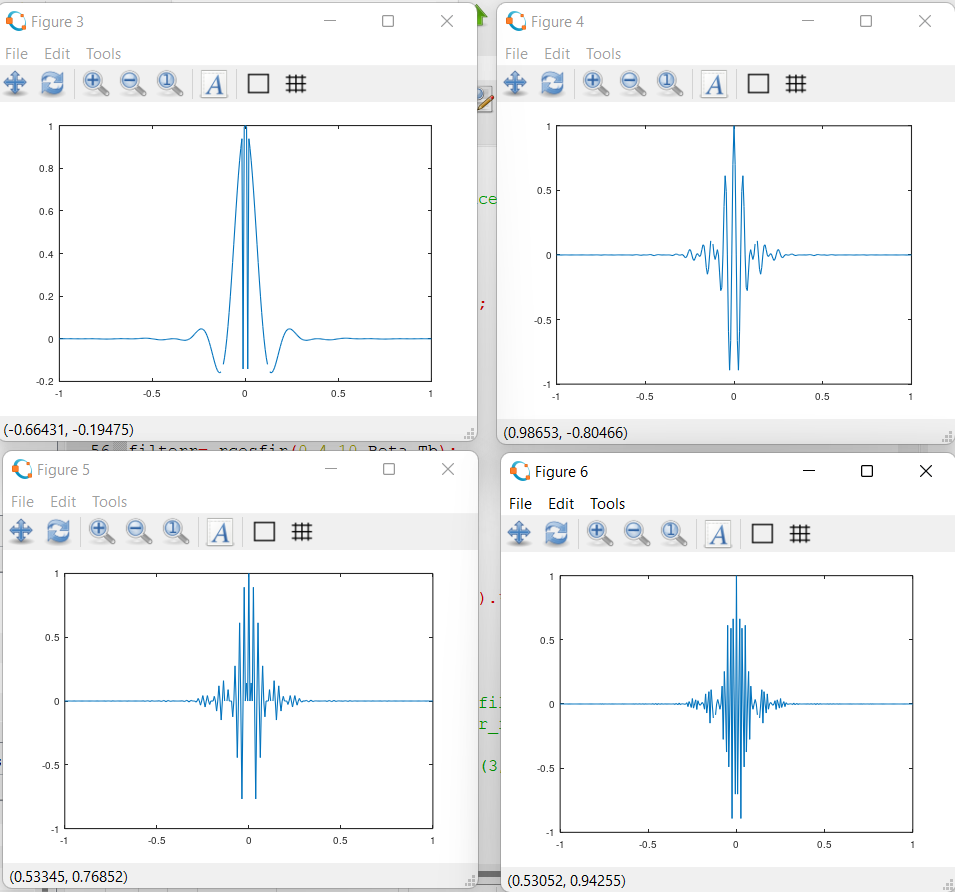
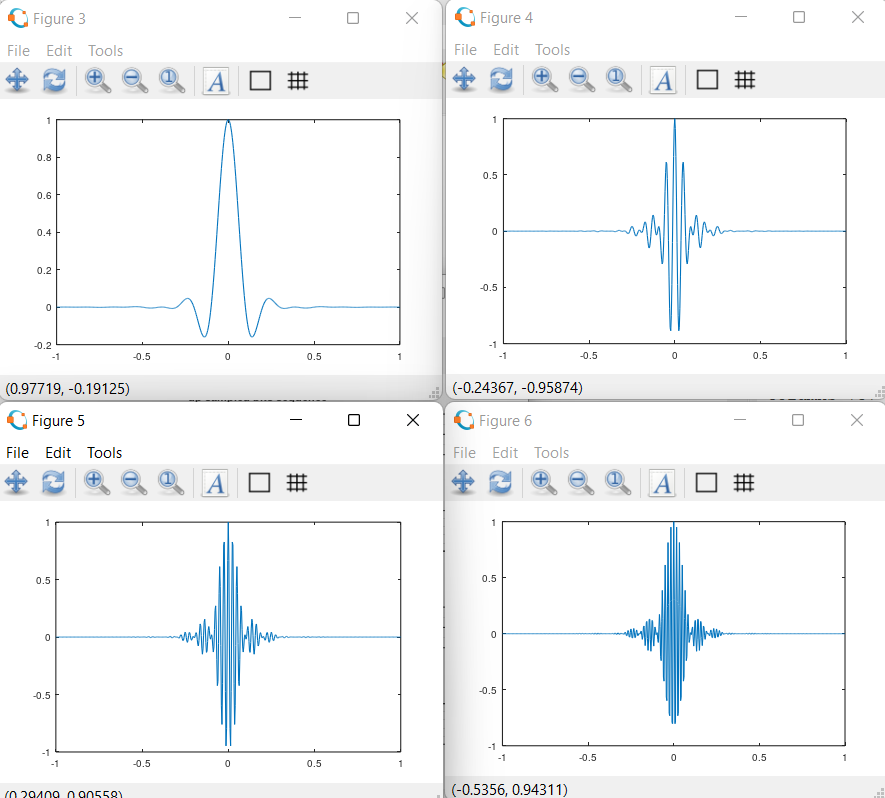
UPDATE

diff --git a/transmitter.m b/transmitter.m
@@ -13,7 +13,7 @@ Tb = 0.1; %period of a bit
 
 M =6 ;%length of the message
 N = 4; %number of messages
-Beta = 30;
+Beta = 100;
 Tn = Tb/Beta %period of sampling
 
 ak = a_generator(M,N);
@@ -74,8 +74,8 @@ carrier(2,:) = cos((4*pi*1000/Tb)*filter_range);
 p2 = filterr.*carrier(2,:);
 temp(2,:) = upsampledsignal(:,2);
 output(2,:)= conv(p2,temp(2,:));
-size = columns(output(2,:)) 
-t =(-Tn*size/2:Tn:Tn*size/2)
+size = columns(output(2,:)) -1;
+t =(-Tn*size/2:Tn:Tn*size/2);
 output(2,:);
 figure(10);
 plot(t,output(2,:));

diff --git a/README.md b/README.md
@@ -51,3 +51,13 @@
   width: 100%;"/>
 
 <h3 style="color:pink" > Produit de convolution</h3>
+<p>La convolution en domaine temporelle est fait gràce à la fonction conv de matlab</p>
+<img src="images/conv.png" style ="display: block;
+  margin-left: auto;
+  margin-right: auto;
+  width: 50%;"/>
+  <p>Et ça donne le résultat suivant pour la deuxième séquence </p>
+  <img src="images/convolution.png" style ="display: block;
+  margin-left: auto;
+  margin-right: auto;
+  width: 80%;"/>
